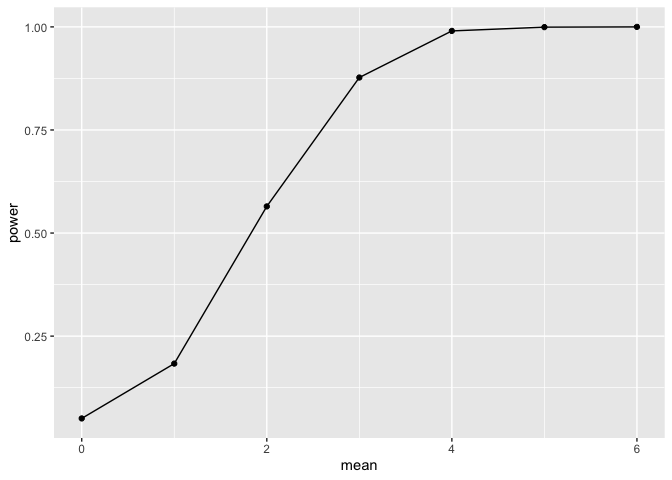
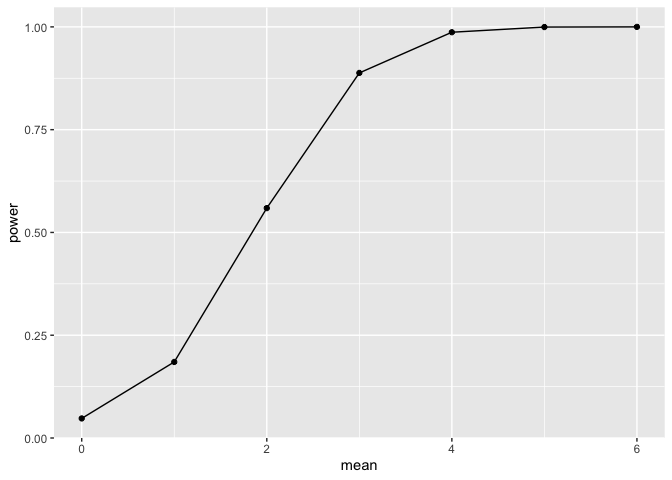
Created a plot of the average estimate of mean and the true mean for the entire population vs samples that are statistically significant.

diff --git a/p8105_hw5_jkl2195.md b/p8105_hw5_jkl2195.md
@@ -225,16 +225,16 @@ df_sim_normal
     ## # A tibble: 35,000 × 4
     ##     mean  iter estimate p.value
     ##    <int> <int>    <dbl>   <dbl>
-    ##  1     0     1 -1.14     0.284 
-    ##  2     0     2  1.88     0.0535
-    ##  3     0     3  1.86     0.0392
-    ##  4     0     4  1.46     0.154 
-    ##  5     0     5 -0.443    0.591 
-    ##  6     0     6 -1.35     0.0883
-    ##  7     0     7  1.24     0.217 
-    ##  8     0     8 -0.00629  0.995 
-    ##  9     0     9 -0.0216   0.978 
-    ## 10     0    10  0.219    0.813 
+    ##  1     0     1  -0.374  0.598  
+    ##  2     0     2   1.85   0.0447 
+    ##  3     0     3   0.0214 0.984  
+    ##  4     0     4   0.821  0.500  
+    ##  5     0     5  -2.31   0.0293 
+    ##  6     0     6  -0.815  0.427  
+    ##  7     0     7  -1.09   0.285  
+    ##  8     0     8   1.60   0.188  
+    ##  9     0     9   2.40   0.00988
+    ## 10     0    10  -1.44   0.0565 
     ## # ℹ 34,990 more rows
 
 Generated 5000 datasets with each mu 0 to 6 using randomized normal
@@ -254,4 +254,27 @@ df_sim_normal |>
 This is a plot the proportion of times the null was rejected (the power
 of the test) on the y axis and the true value of mu on the x axis. There
 is a positive relationship between the effect size and the power. Power
-stayed at 1 after reaching around mean 4.
+stayed around 1 after reaching around mean 4.
+
+``` r
+df_sim_normal |>
+  group_by(mean) |>
+  summarize(average_mean = mean(estimate)) |>
+  ggplot(aes(x = mean, y = average_mean)) +
+  geom_line() +
+  geom_line(data = df_sim_normal |>
+              filter(p.value < alp) |>
+              group_by(mean) |>
+              summarize(average_mean = mean(estimate)),
+            color = "red")
+```
+
+![](p8105_hw5_jkl2195_files/figure-gfm/unnamed-chunk-11-1.png)<!-- -->
+
+This a plot showing the average estimate of mu hat on the y axis and the
+true value of mu on the x axis for all samples (black) vs samples for
+which the null was rejected (red).
+
+The sample average of mu hat is not approximately equal to the true
+value of mu mainly due to the small sample size of 30. Larger sample
+size can be used to higher the approximation.
